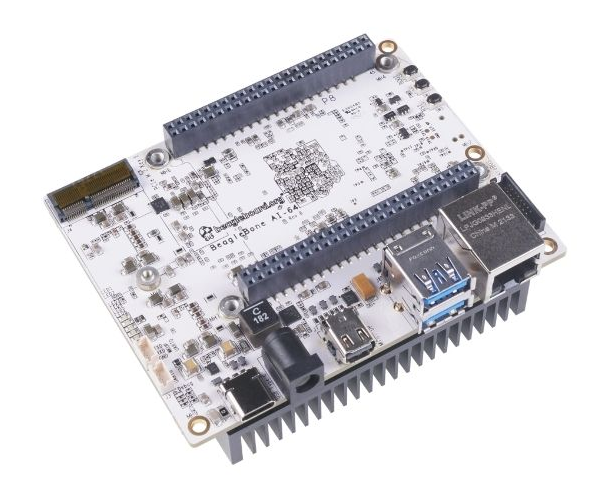
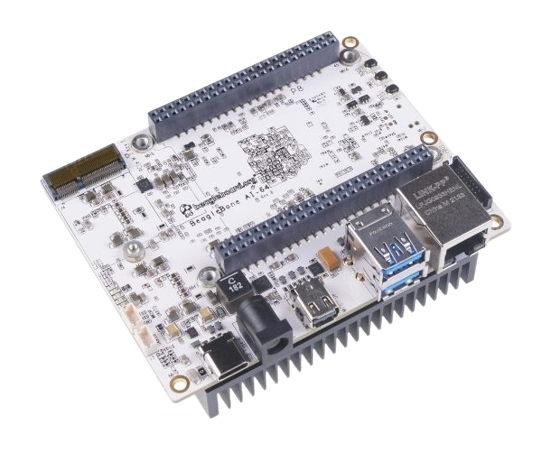
DOCS-793: Remove backgrounds

diff --git a/docs/_index.md b/docs/_index.md
@@ -20,7 +20,7 @@ Viam supports a wide variety of systems, including:
   </li>
   <li id="c1_slide2">
     <a href="installation/prepare/rpi-setup/">
-        <img src="installation/img/thumbnails/raspberry-pi-4-b-2gb.jpg" alt="Raspberry Pi" width="100%">
+        <img src="installation/img/thumbnails/raspberry-pi-4-b-2gb.png" alt="Raspberry Pi" width="100%">
         <h6>Raspberry Pi 4</h6>
     </a>
   </li>
@@ -56,7 +56,7 @@ Viam supports a wide variety of systems, including:
   </li>
   <li id="c1_slide8">
     <a href="components/board/jetson/">
-            <img src="installation/img/thumbnails/jetson-xavier.jpeg" alt="Jetson Xavier NX Dev Kit" width="100%">
+            <img src="installation/img/thumbnails/jetson-xavier.png" alt="Jetson Xavier NX Dev Kit" width="100%">
             <h6>NVIDIA Jetson Xavier NX</h6>
     </a>
   </li>
@@ -68,7 +68,7 @@ Viam supports a wide variety of systems, including:
   </li>
   <li id="c1_slide10">
     <a href="components/board/nanopi/">
-        <img src="installation/img/thumbnails/nanopi.jpeg" alt="FriendlyElec's NanoPi Mini Board" width="100%">
+        <img src="installation/img/thumbnails/nanopi.png" alt="FriendlyElec's NanoPi Mini Board" width="100%">
         <h6>FriendlyElec NanoPi</h6>
     </a>
   </li>
@@ -80,7 +80,7 @@ Viam supports a wide variety of systems, including:
   </li>
   <li id="c1_slide12">
     <a href="components/board/pca9685/">
-        <img src="installation/img/thumbnails/pca9685.jpeg" alt="P C A 9685 Arduino I 2 C Interface" width="100%">
+        <img src="installation/img/thumbnails/pca9685.png" alt="P C A 9685 Arduino I 2 C Interface" width="100%">
         <h6>PCA9686 Arduino I<sup>2</sup>C Interface</h6>
     </a>
   </li>

diff --git a/docs/installation/prepare/rpi-setup.md b/docs/installation/prepare/rpi-setup.md
@@ -4,9 +4,9 @@ linkTitle: "Raspberry Pi Setup"
 weight: 15
 type: "docs"
 description: "Image a Raspberry Pi to prepare it for viam-server installation."
-image: "/installation/img/thumbnails/raspberry-pi-4-b-2gb.jpg"
+image: "/installation/img/thumbnails/raspberry-pi-4-b-2gb.png"
 imageAlt: "Raspberry Pi"
-iamges: ["/installation/img/thumbnails/raspberry-pi-4-b-2gb.jpg"]
+iamges: ["/installation/img/thumbnails/raspberry-pi-4-b-2gb.png"]
 no_list: true
 aliases:
     - /getting-started/rpi-setup/
